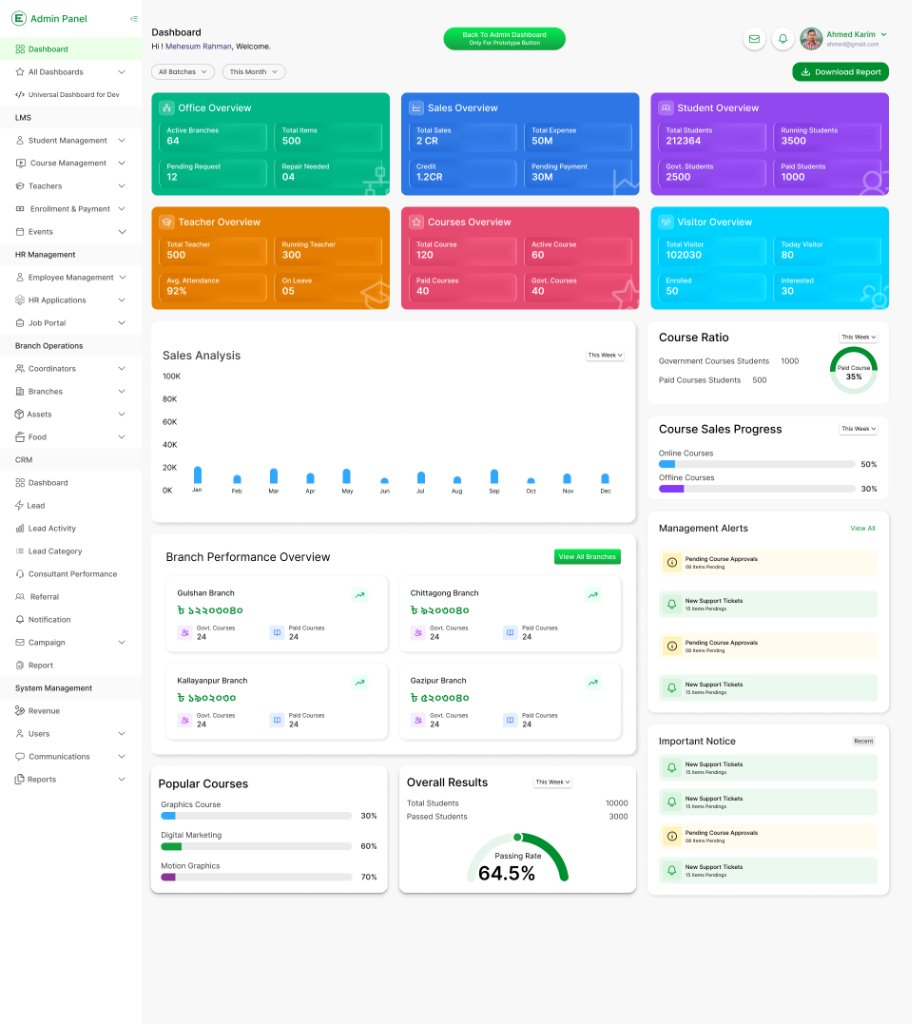
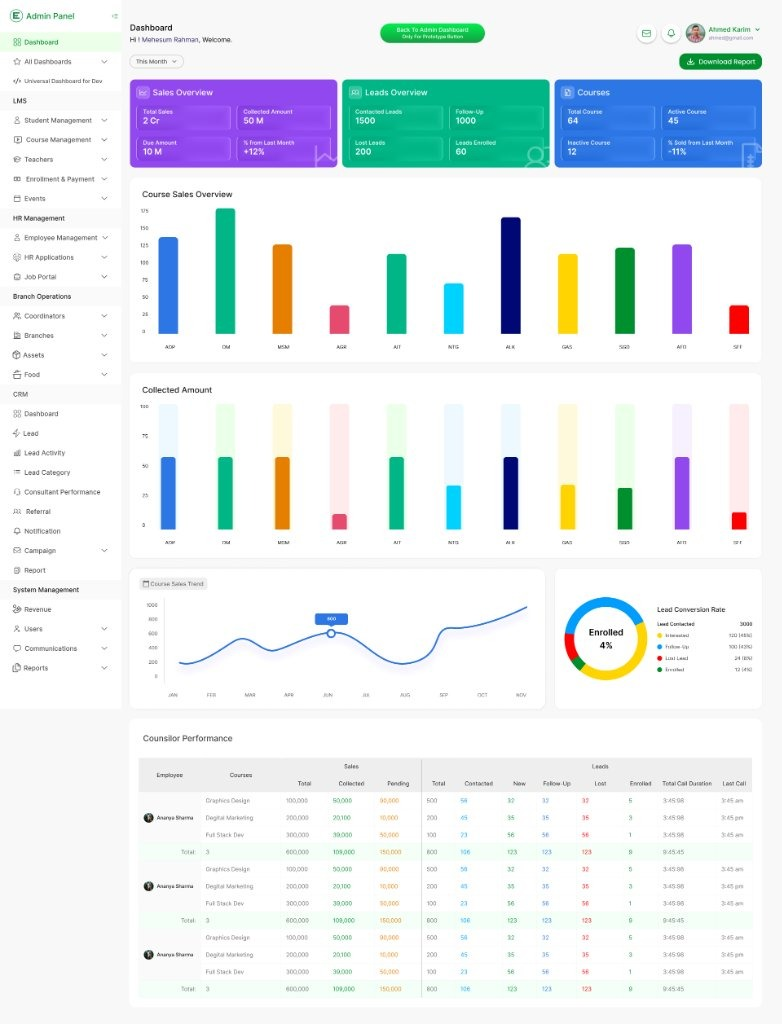
feat: add 11 new projects, update ERP thumbnail with user upload, capture screenshots, and shuffle bento grid

diff --git a/src/data/projects.ts b/src/data/projects.ts
@@ -212,6 +212,146 @@ export const projects: Project[] = [
     stack: [],
     results: [],
   },
+  {
+    slug: "clickel-digital",
+    name: "Clickel Digital",
+    category: "Enterprise",
+    description:
+      "Full-service digital agency and web engineering studio delivering high-conversion brand experiences, bespoke UI architecture, and growth campaigns.",
+    url: "https://www.clickeldigital.com/",
+    status: "Live",
+    featured: true,
+    image: "/screenshots/clickel-digital.webp",
+    stack: [],
+    results: [],
+  },
+  {
+    slug: "promise-footwear",
+    name: "Promise Footwear Ltd",
+    category: "Commerce",
+    description:
+      "International export-grade footwear manufacturing enterprise, digital B2B catalog, and global supply chain tracking portal.",
+    url: "https://www.promisefootwearltd.com/",
+    status: "Live",
+    featured: false,
+    image: "/screenshots/promise-footwear.webp",
+    stack: [],
+    results: [],
+  },
+  {
+    slug: "promise-agro",
+    name: "Promise Agro Ltd",
+    category: "Enterprise",
+    description:
+      "Modern sustainable agriculture enterprise, agro-processing operational management, and farm-to-market wholesale supply network.",
+    url: "https://promisegroupbd.com/",
+    status: "Live",
+    featured: false,
+    stack: [],
+    results: [],
+  },
+  {
+    slug: "promise-haven-city",
+    name: "Promise Haven City",
+    category: "Real Estate & Hospitality",
+    description:
+      "Master-planned residential smart township, digital land unit allocation system, and modern urban property infrastructure portal.",
+    url: "https://promiseheavencity.com/",
+    status: "Live",
+    featured: true,
+    image: "/screenshots/promise-haven-city.webp",
+    stack: [],
+    results: [],
+  },
+  {
+    slug: "learnwell-academy",
+    name: "LearnWell Academy",
+    category: "Education",
+    description:
+      "Modern EdTech skills accelerator offering practical professional technology curriculums, interactive workshops, and mentorship.",
+    url: "https://learnwellbd.com/",
+    status: "Live",
+    featured: false,
+    image: "/screenshots/learnwell-academy.webp",
+    stack: [],
+    results: [],
+  },
+  {
+    slug: "moral-learning-institute",
+    name: "Moral Learning Institute",
+    category: "Education",
+    description:
+      "Values-grounded academic institution providing ethical leadership training, professional certifications, and community learning programs.",
+    url: "https://morallearningbd.com/",
+    status: "Live",
+    featured: false,
+    stack: [],
+    results: [],
+  },
+  {
+    slug: "click-the-photo",
+    name: "Click The Photo",
+    category: "Media",
+    description:
+      "Commercial visual production studio, professional creative photography management, and multimedia content hosting.",
+    url: "https://clickthephoto.com/",
+    status: "Live",
+    featured: false,
+    stack: [],
+    results: [],
+  },
+  {
+    slug: "photo-fixa",
+    name: "Photo Fixa",
+    category: "Media",
+    description:
+      "Global cloud image post-production platform, automated clipping path workflows, and high-precision e-commerce retouching services.",
+    url: "https://photofixa.com/",
+    status: "Live",
+    featured: false,
+    image: "/screenshots/photo-fixa.webp",
+    stack: [],
+    results: [],
+  },
+  {
+    slug: "ajker-dainik",
+    name: "Daily Ajker Dainik",
+    category: "Media",
+    description:
+      "National daily digital newspaper delivering investigative journalism, national updates, and high-velocity readership workflows.",
+    url: "https://www.ajkerdainik.com/",
+    status: "Live",
+    featured: true,
+    image: "/screenshots/ajker-dainik.webp",
+    stack: [],
+    results: [],
+  },
+  {
+    slug: "doinik-barta",
+    name: "দৈনিক বার্তা (Doinik Barta)",
+    category: "Media",
+    description:
+      "Prominent vernacular daily news publication providing comprehensive national coverage, special reports, and multimedia journalism.",
+    url: "https://www.doinikbarta.com/",
+    status: "Live",
+    featured: false,
+    image: "/screenshots/doinik-barta.webp",
+    stack: [],
+    results: [],
+  },
+  {
+    slug: "asia-post",
+    name: "Asia Post",
+    category: "Media",
+    description:
+      "Regional current affairs publication covering Asian geopolitical developments, business analysis, and international commentary.",
+    url: "https://www.asia-post.com/",
+    status: "Live",
+    featured: false,
+    image: "/screenshots/asia-post.webp",
+    stack: [],
+    results: [],
+  },
 ];
 
 export const featuredProjects = projects.filter((project) => project.featured);

diff --git a/src/components/sections/Projects.tsx b/src/components/sections/Projects.tsx
@@ -125,12 +125,23 @@ export function Projects() {
 
                   <div className="flex items-center justify-between pt-2">
                     <span className="rounded-md border border-white/[0.08] bg-bg px-2.5 py-0.5 font-mono text-[11px] font-medium uppercase tracking-wider text-accent">
-                      {project.slug === "promise-crm" && "Sales & Relationship"}
-                      {project.slug === "promise-mart" && "E-commerce"}
-                      {project.slug === "promise-hotel-resort" && "Hospitality Management"}
-                      {project.slug === "promise-assets" && "Asset & Property"}
-                      {project.slug === "dyd-ai" && "Artificial Intelligence"}
-                      {project.slug === "news-portal" && "Media & Live News"}
+                      {project.slug === "clickel-digital"
+                        ? "Web Solutions & Agency"
+                        : project.slug === "promise-mart"
+                        ? "E-commerce"
+                        : project.slug === "promise-hotel-resort"
+                        ? "Hospitality Management"
+                        : project.slug === "promise-assets"
+                        ? "Asset & Property"
+                        : project.slug === "dyd-ai"
+                        ? "Artificial Intelligence"
+                        : project.slug === "promise-haven-city"
+                        ? "Smart Township"
+                        : project.slug === "ajker-dainik"
+                        ? "National News Media"
+                        : project.slug === "news-portal"
+                        ? "Media & Live Sports"
+                        : project.category}
                     </span>
                     <span className="font-mono text-xs text-ink/40">
                       {project.status}

diff --git a/src/components/sections/Hero.tsx b/src/components/sections/Hero.tsx
@@ -89,9 +89,9 @@ export function Hero() {
                   className="absolute top-0 right-0 sm:-right-2 w-11/12 opacity-40 blur-[0.5px] transition-transform duration-500 hover:opacity-60 hidden sm:block"
                 >
                   <BrowserFrame
-                    title="Promise Mart E-Commerce"
-                    url="promisemart.com"
-                    image="/screenshots/promise-mart.webp"
+                    title="Clickel Digital Agency"
+                    url="clickeldigital.com"
+                    image="/screenshots/clickel-digital.webp"
                     variant="compact"
                     aspect="video"
                   />
